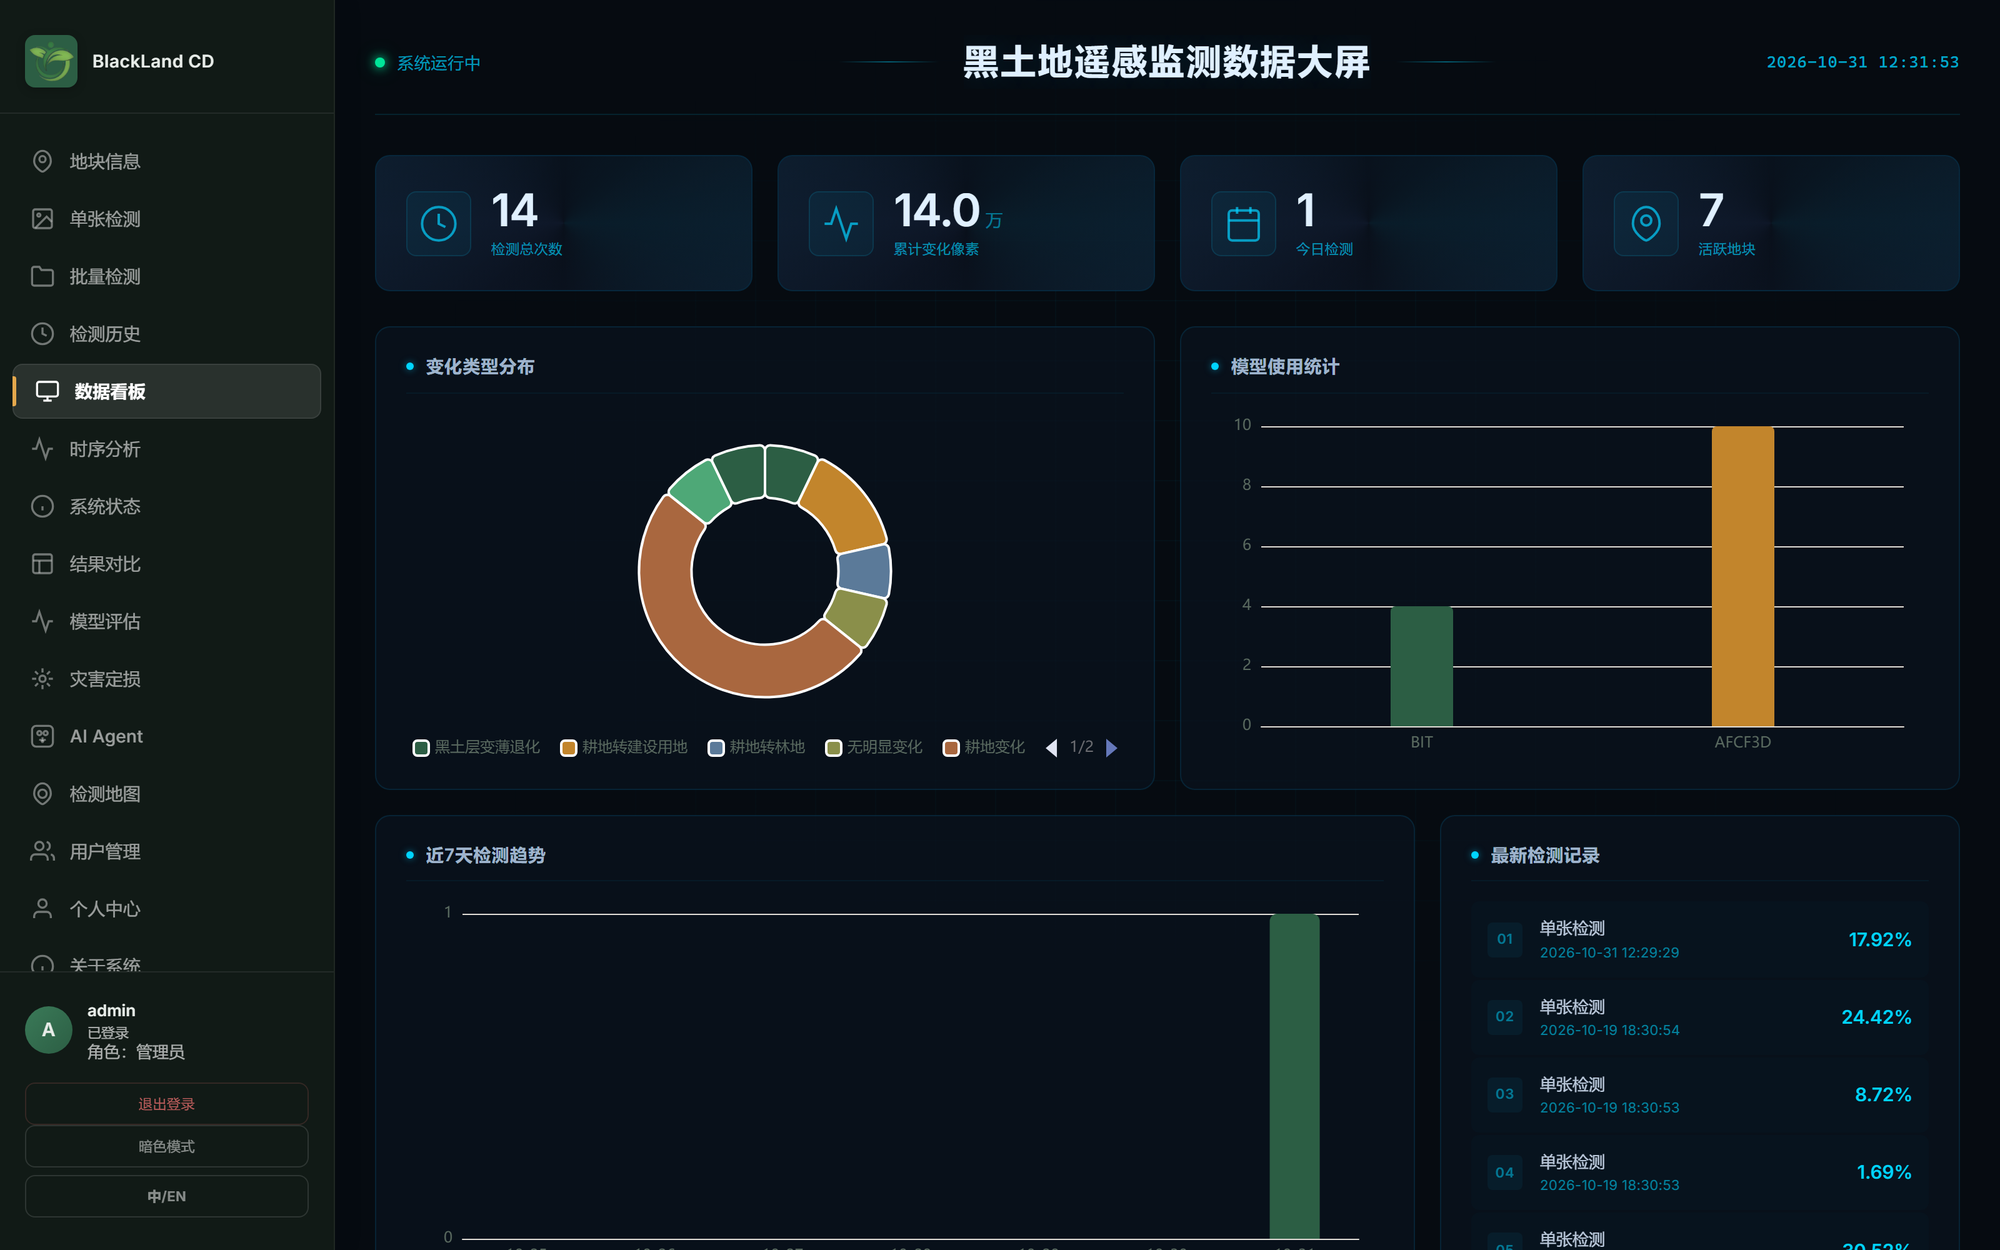
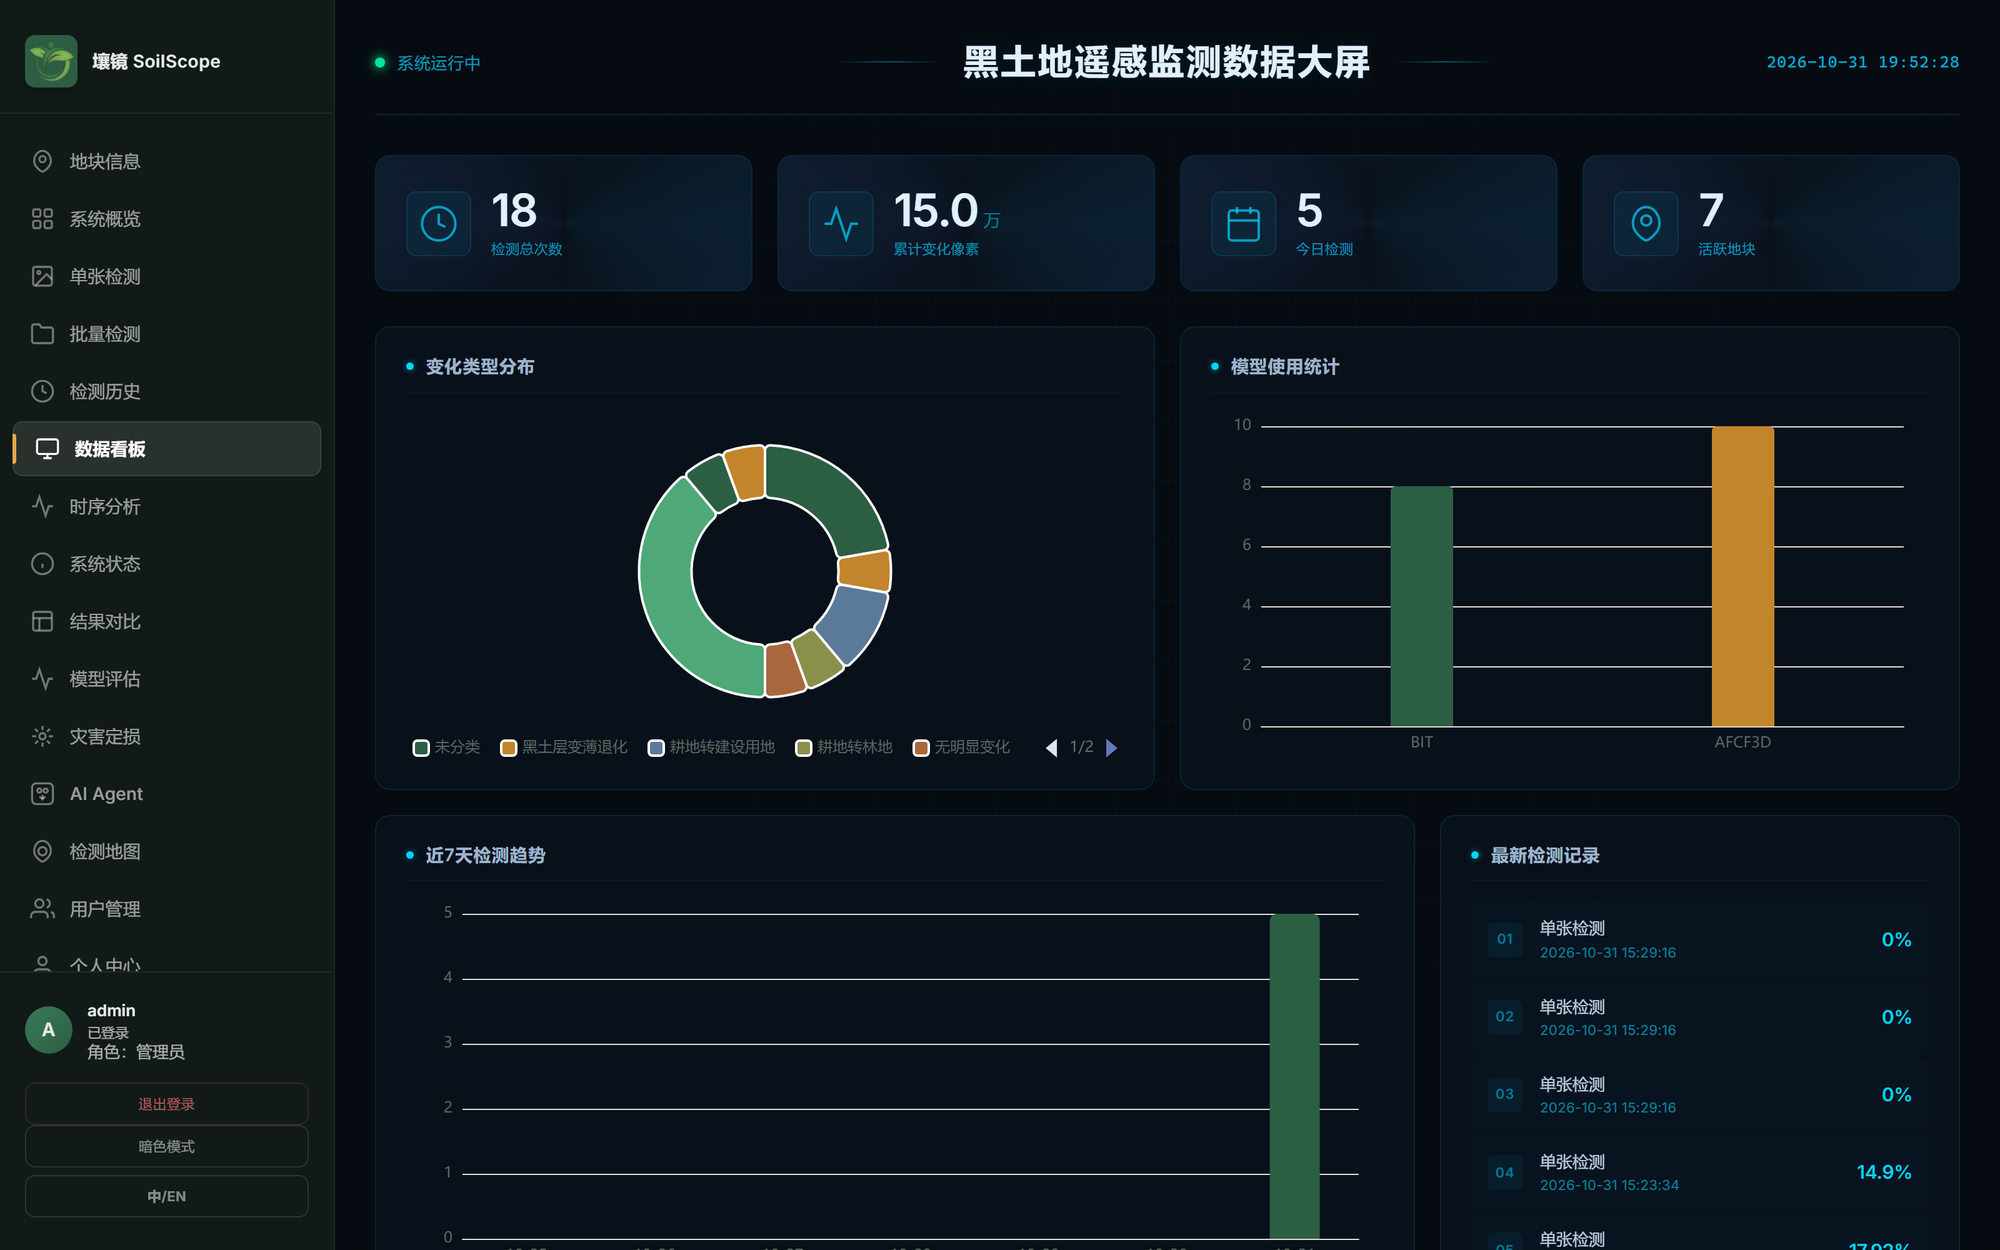
rename: 产品改名 壤镜 SoilScope（仓库名仍是 BIT-CD）
BIT_CD 是模型代号（Binary-change Transformer + Change Detection），
当技术标识没问题，当产品名太重、读起来像仓库名。

新名字：壤镜 / SoilScope
- 壤 = 土壤本体（比「土」雅）；镜 = 观测这件事本身，遥感就是一面镜子
- SoilScope 是自然复合词（telescope / microscope 构词），英文读者一眼懂
- 仓库名不动：已有链接、克隆地址、文档引用都不受影响

同步了：界面侧栏/页脚/关于页、页面标题与 OG 标签、PWA 清单、登录页标题、
分享卡片（重新生成）、README、以及全部 9 张产品截图（侧栏上烧着旧名字）。

验证：首屏标题、侧栏品牌、页脚、关于页标题逐个确认；
17 页 × 明暗 × 游客/管理员 零错误；i18n 键一致；JS 语法检查通过。
sw 缓存 v26 → v27。

diff --git a/frontend/index.html b/frontend/index.html
@@ -3,13 +3,13 @@
 <head>
     <meta charset="UTF-8">
     <meta name="viewport" content="width=device-width, initial-scale=1.0">
-    <title>黑土地遥感变化检测系统 - BlackLand CD</title>
+    <title>壤镜 SoilScope · 黑土地遥感变化检测系统</title>
     <meta name="description" content="黑土地遥感变化检测智能平台，融合深度学习与GIS技术，为东北黑土地保护提供精准的变化检测与数据分析">
     <meta name="theme-color" content="#2d6a4f">
-    <meta property="og:title" content="黑土地遥感变化检测系统 - BlackLand CD">
+    <meta property="og:title" content="壤镜 SoilScope · 黑土地遥感变化检测系统">
     <meta property="og:description" content="上传同一地块的前后两期卫星影像，输出变化区域、变化比例与实际受影响面积。7 种变化检测模型 · 多时相趋势 · 灾害定损 · 卫星地图。">
     <meta property="og:type" content="website">
-    <meta property="og:site_name" content="BlackLand CD">
+    <meta property="og:site_name" content="壤镜 SoilScope">
     <!-- __OG_BASE__ 由后端在返回 index.html 时替换成当前站点的绝对地址。
          Open Graph 只认绝对 URL，写相对路径微信/QQ/Twitter 一律取不到图；
          而写死域名又等于把服务器地址提交进仓库，所以放到请求时再填。 -->
@@ -122,7 +122,7 @@
         <header class="landing-top">
             <div class="landing-brand">
                 <img src="images/logo.png" alt="">
-                <span>BlackLand CD</span>
+                <span>壤镜 SoilScope</span>
             </div>
             <div class="landing-top-actions">
                 <button type="button" class="landing-ghost" id="landingLoginBtn" data-i18n="landing.login">登录</button>
@@ -162,7 +162,7 @@
         <div class="auth-card">
             <div class="auth-logo">
                 <!-- Logo png -->
-                <img src="images/logo.png" alt="BlackLand CD" style="width:80px; height:80px; margin:0 auto 16px; display:block;">
+                <img src="images/logo.png" alt="壤镜 SoilScope" style="width:80px; height:80px; margin:0 auto 16px; display:block;">
                 <h1 data-i18n="auth.title">黑土地遥感变化检测系统</h1>
                 <p data-i18n="auth.subtitle">上传两期影像，识别耕地变化位置与面积</p>
             </div>
@@ -227,7 +227,7 @@
                     <div class="logo-icon">
                          <img src="images/logo.png" alt="logo" style="width:100%; height:100%; object-fit:contain;">
                     </div>
-                    <div><h2>BlackLand CD</h2></div>
+                    <div><h2>壤镜 SoilScope</h2></div>
                 </div>
             </div>
             <nav class="sidebar-nav">
@@ -1600,10 +1600,10 @@
 
             <div id="page-about" class="page-content">
                 <div class="about-hero">
-                    <div class="about-logo"><img src="images/logo.png" alt="BlackLand CD" loading="lazy" decoding="async" style="width:100%;height:100%;object-fit:contain;"></div>
+                    <div class="about-logo"><img src="images/logo.png" alt="壤镜 SoilScope" loading="lazy" decoding="async" style="width:100%;height:100%;object-fit:contain;"></div>
                     <!-- 整页此前没有 h1，且两张卡的 h3 排在「更新日志」的 h2 之前 ——
                          层级倒挂。这里补上页面级标题，卡片那两级标题降为 h2。 -->
-                    <h1 class="about-title" data-i18n="about.title">BlackLand CD 黑土地遥感变化检测系统</h1>
+                    <h1 class="about-title" data-i18n="about.title">壤镜 SoilScope · 黑土地遥感变化检测系统</h1>
                     <span class="about-version">v1.1.0</span>
                     <p class="about-desc" data-i18n="about.description">基于深度学习与 GIS 的黑土地遥感变化检测平台</p>
                 </div>
@@ -1758,7 +1758,7 @@
 
             <!-- Footer 页脚 -->
             <footer class="app-footer">
-                <span>&copy; 2026 BlackLand CD · <span data-i18n="footer.copyright">黑土地遥感变化检测系统</span></span>
+                <span>&copy; 2026 壤镜 SoilScope · <span data-i18n="footer.copyright">黑土地遥感变化检测系统</span></span>
                 <span><a href="javascript:void(0)" onclick="document.querySelector('.nav-item[data-page=\'about\']').click()" data-i18n="footer.aboutLink">关于系统</a> &nbsp;|&nbsp; <span data-i18n="footer.version">版本</span> v1.1.0</span>
             </footer>
         </main>

diff --git a/frontend/js/locales/en.js b/frontend/js/locales/en.js
@@ -36,7 +36,7 @@ export const en = {
     "common.loadFailed": "Failed to load data. Please retry.",
     "unit.mu": "mu",
 
-    "auth.title": "Black Soil Remote Sensing Change Detection",
+    "auth.title": "SoilScope",
     "auth.subtitle": "Upload two-date imagery; detect cropland change and area",
     "auth.username": "Username",
     "auth.password": "Password",
@@ -597,7 +597,7 @@ export const en = {
     "profile.pwdChangeFailed": "Password change failed",
 
     // About
-    "about.title": "BlackLand CD — Black Soil Remote Sensing Change Detection",
+    "about.title": "SoilScope — Black Soil Remote Sensing Change Detection",
     "about.description": "Black soil remote sensing change detection platform built on deep learning and GIS",
     "about.techStack": "Tech Stack",
     "about.frontend": "Frontend",
@@ -616,7 +616,7 @@ export const en = {
     "about.logV1": "First official release: single/batch detection, multi-model comparison, AI interpretation, plot management, annotation system, timeline analysis, GIS map visualization, user management, Docker deployment",
 
     // Footer
-    "footer.copyright": "BlackLand Change Detection System",
+    "footer.copyright": "Black Soil Remote Sensing Change Detection",
     "footer.aboutLink": "About",
     "footer.version": "Version",
 

diff --git a/frontend/js/locales/zh-CN.js b/frontend/js/locales/zh-CN.js
@@ -39,7 +39,7 @@ export const zhCN = {
     "unit.mu": "亩",
 
     // 认证
-    "auth.title": "黑土地遥感变化检测系统",
+    "auth.title": "壤镜 SoilScope",
     "auth.subtitle": "上传两期影像，识别耕地变化位置与面积",
     "auth.username": "用户名",
     "auth.password": "密码",
@@ -636,7 +636,7 @@ export const zhCN = {
     "profile.pwdChangeFailed": "密码修改失败",
 
     // 关于
-    "about.title": "BlackLand CD 黑土地遥感变化检测系统",
+    "about.title": "壤镜 SoilScope · 黑土地遥感变化检测系统",
     "about.description": "基于深度学习与 GIS 的黑土地遥感变化检测平台",
     "about.techStack": "技术栈",
     "about.frontend": "前端",

diff --git a/frontend/js/main.js b/frontend/js/main.js
@@ -188,9 +188,9 @@ window.onload = () => {
 
     // Inject manifest as blob URL (bypasses JetBrains server MIME restriction on .json)
     const manifest = {
-        name: 'BIT_CD 黑土地遥感变化检测系统',
-        short_name: 'BIT_CD',
-        description: '黑土地保护智能平台 - 遥感变化检测与AI分析',
+        name: '壤镜 SoilScope · 黑土地遥感变化检测系统',
+        short_name: '壤镜',
+        description: '壤镜 SoilScope —— 黑土地遥感变化检测与变化分析',
         start_url: './index.html',
         display: 'standalone',
         background_color: '#f8fafc',

diff --git a/frontend/sw.js b/frontend/sw.js
@@ -1,4 +1,4 @@
-const CACHE_NAME = 'bitcd-v26';
+const CACHE_NAME = 'bitcd-v27';
 
 const PRECACHE_URLS = [
   './',

diff --git a/CHANGELOG.md b/CHANGELOG.md
@@ -7,6 +7,18 @@
 
 ## 未发布
 
+### 产品改名：BIT_CD → 壤镜 SoilScope
+
+`BIT_CD` 是模型代号（Binary-change Transformer + Change Detection），当技术标识
+没问题，当产品名太重、读起来像仓库名。改名为**壤镜 / SoilScope**：
+
+- 「壤」是土壤本体，比「土」雅；「镜」指观测这件事本身 —— 遥感就是一面镜子
+- `SoilScope` 是自然复合词（telescope / microscope 的构词），英文读者一眼懂
+- 仓库名 `tangfulian/BIT-CD` **不变**：已有链接、克隆地址、文档引用都不受影响，
+  技术语境里继续叫 BIT_CD 也不冲突
+
+界面、页脚、PWA 清单、页面标题、分享卡片、README 与截图已同步。
+
 ### 前沿资讯
 
 - 新增「前沿资讯」页：上半部分是 arXiv 上最新的农业遥感论文（标题、作者、

diff --git a/README.md b/README.md
@@ -1,4 +1,7 @@
-# BIT_CD · 黑土地遥感变化检测系统
+# 壤镜 SoilScope · 黑土地遥感变化检测系统
+
+> 仓库名与模型代号仍是 `BIT_CD`（Binary-change Transformer + Change Detection），
+> 产品名是**壤镜 / SoilScope**。
 
 面向东北黑土地保护的遥感变化检测平台。上传同一地块的前后两期影像，系统输出变化区域掩膜、
 变化比例与统计，并在此基础上提供多模型对比、多时相趋势分析、农业灾害定损与 AI 辅助解读。
